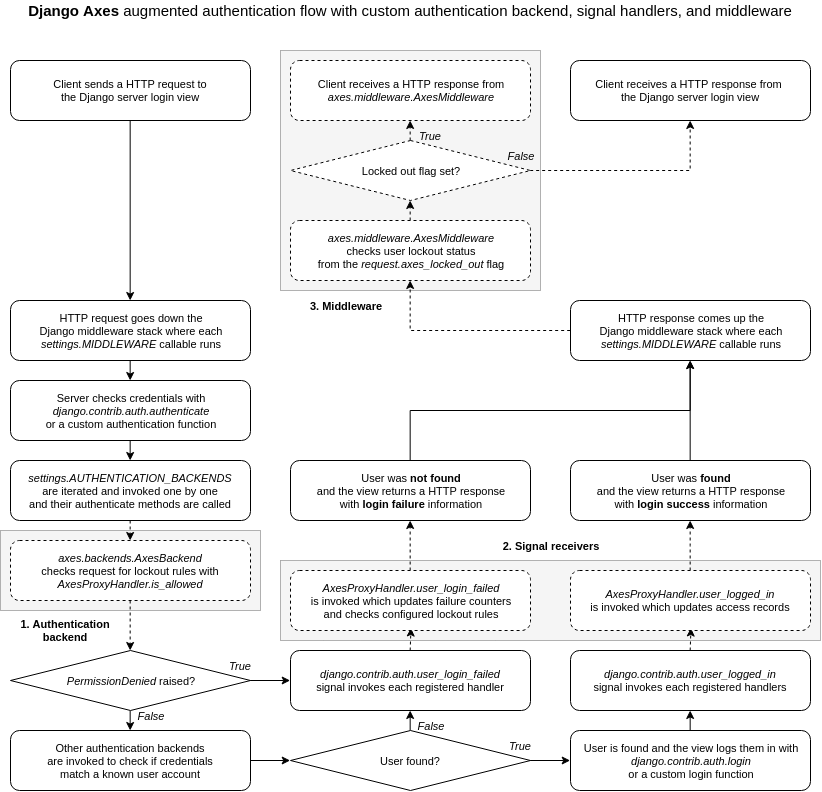
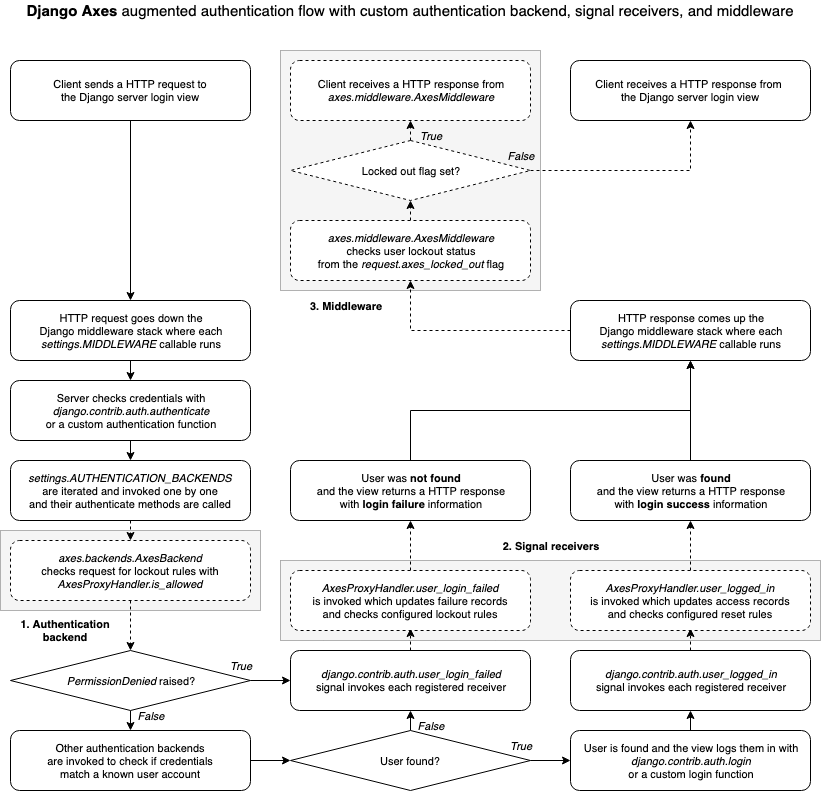
Improve documentation
Improve language for easier readability
Add missing Axes.W004 check code to docs
Update flow image with better diagram language

diff --git a/docs/2_installation.rst b/docs/2_installation.rst
@@ -85,6 +85,7 @@ Axes has the following warnings codes built in:
 - ``axes.W001`` for invalid ``CACHES`` configuration.
 - ``axes.W002`` for invalid ``MIDDLEWARE`` configuration.
 - ``axes.W003`` for invalid ``AUTHENTICATION_BACKENDS`` configuration.
+- ``axes.W004`` for deprecated use of ``AXES_*`` setting flags.
 
 
 .. note::
@@ -96,10 +97,10 @@ Axes has the following warnings codes built in:
 Disabling Axes components in tests
 ----------------------------------
 
-If you get errors when running tests or other configurations, try setting the ``AXES_ENABLED``
-flag to ``False`` in your project or test settings configuration file::
+If you get errors when running tests, try setting the
+``AXES_ENABLED`` flag to ``False`` in your test settings::
 
     AXES_ENABLED = False
 
-This disables the Axes middleware, authentication backend and signal handlers
-which might produce errors with exotic test configurations.
+This disables the Axes middleware, authentication backend and signal receivers,
+which might fix errors with incompatible test configurations.

diff --git a/docs/7_architecture.rst b/docs/7_architecture.rst
@@ -73,5 +73,5 @@ to log in users or otherwise take care of notifying Axes of authentication
 attempts and failures the same way Django does via authentication signals.
 
 The login flows can be customized and the Axes
-authentication backend, middleware, and handlers
+authentication backend, middleware, and signal receivers
 can easily be swapped to alternative implementations.
